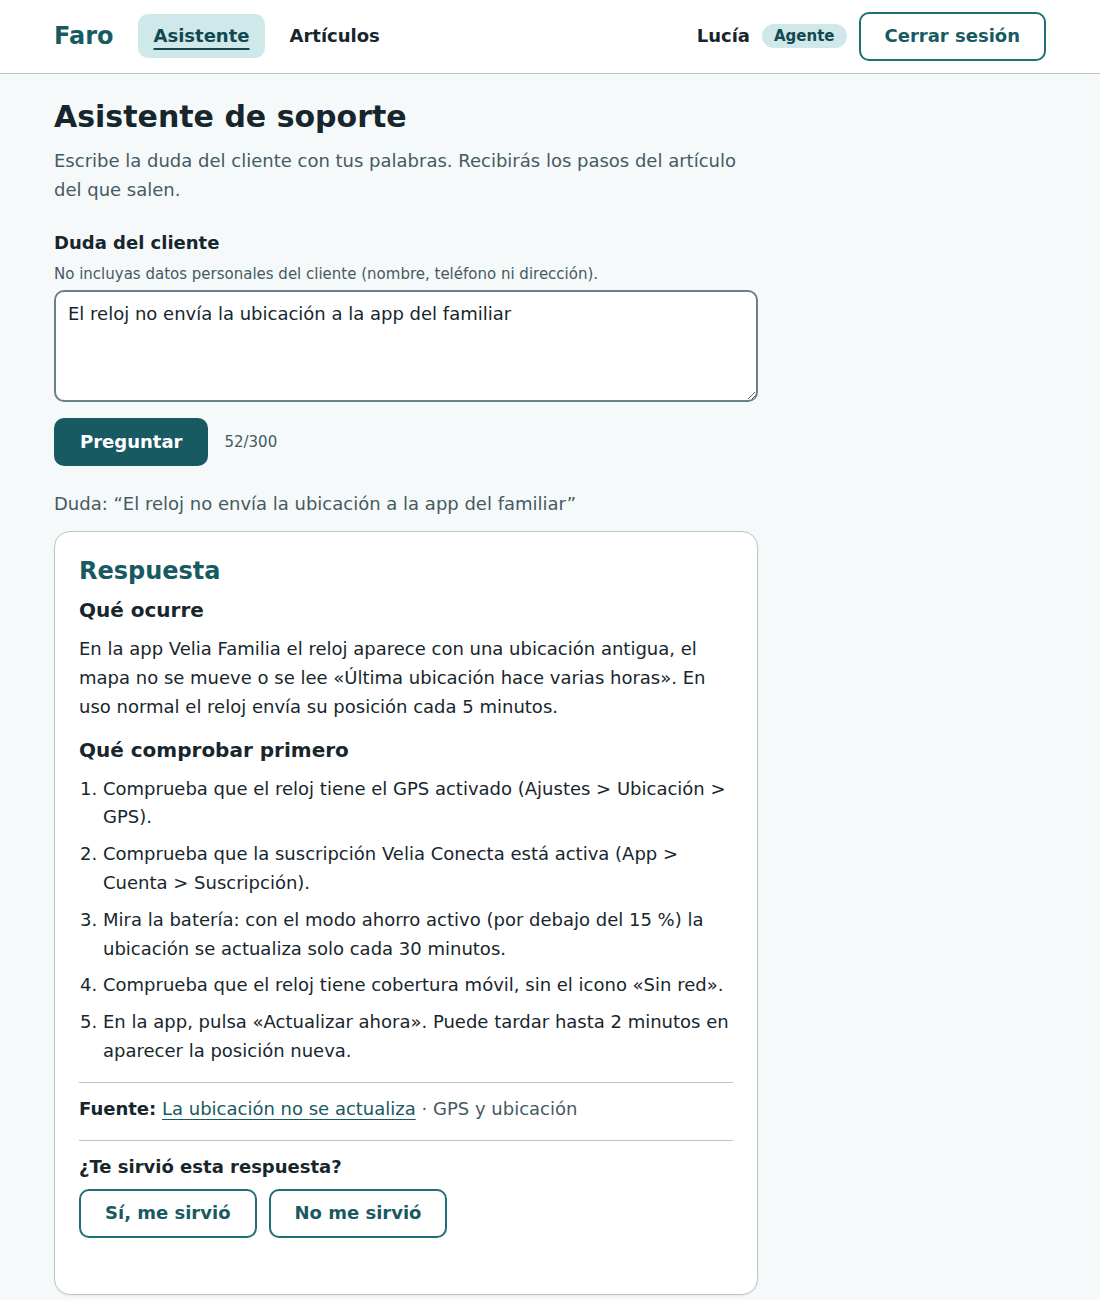
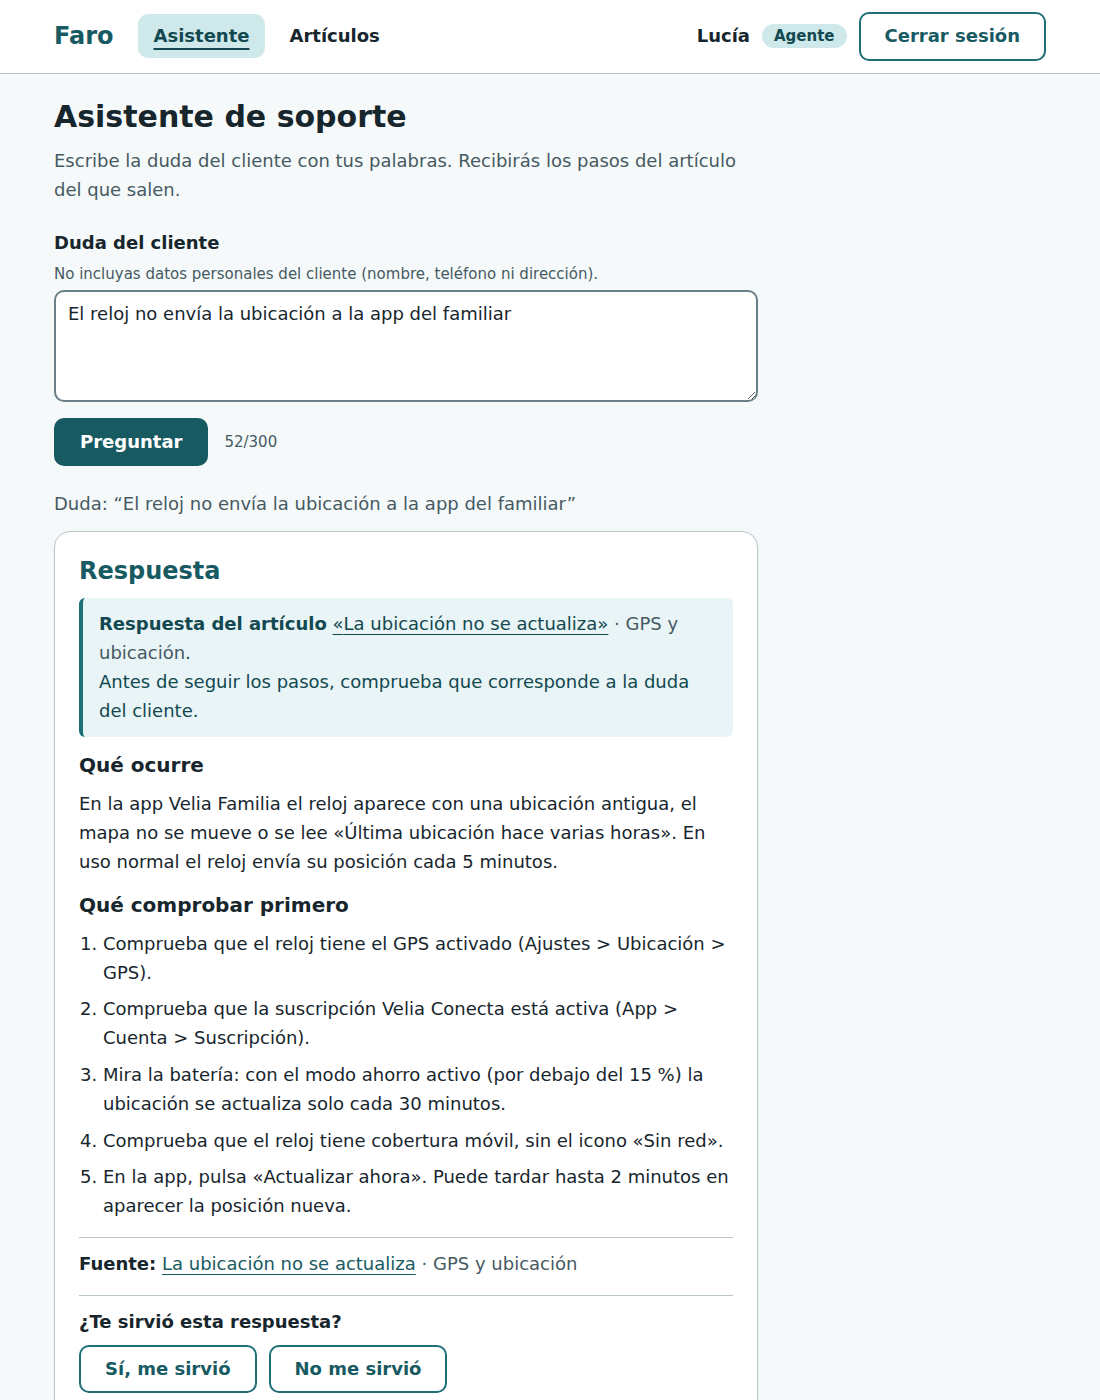
Mitiga en la interfaz el riesgo de respuestas con otro artículo
Cada respuesta empieza con el artículo del que sale y pide comprobar que
corresponde a la duda. Si la coincidencia es débil (puntuación < 0,4, donde
las respuestas aciertan el 46 % frente al 82 %) añade un aviso reforzado.
Nunca muestra un mensaje de alta confianza (la banda alta también falla).
Verificado con axe y contraste en navegador real, móvil y CSP. 5 mutaciones
detectadas. Documentado con su evidencia y sus límites.

Claude-Session: https://claude.ai/code/session_014X62RLLdPC6ewQNj8BPKLC

diff --git a/src/pages/assistant.test.tsx b/src/pages/assistant.test.tsx
@@ -1,6 +1,6 @@
 // @vitest-environment jsdom
 import { afterEach, beforeEach, describe, expect, it, vi } from 'vitest'
-import { cleanup, render, screen, waitFor, within } from '@testing-library/react'
+import { cleanup, render, screen, waitFor } from '@testing-library/react'
 import userEvent from '@testing-library/user-event'
 import { MemoryRouter } from 'react-router-dom'
 
@@ -233,8 +233,8 @@ describe('asistente: validación y errores', () => {
 
     expect(await screen.findByRole('link', { name: 'Respuesta NUEVA' })).toBeTruthy()
     releaseFirst() // llega tarde la primera
-    await waitFor(() => expect(within(screen.getByRole('article')).getByRole('link').textContent).toBe('Respuesta NUEVA'))
-    expect(screen.queryByText('Respuesta ANTIGUA')).toBeNull()
+    await waitFor(() => expect(screen.getByRole('article').textContent).toContain('Respuesta NUEVA'))
+    expect(screen.queryByText(/Respuesta ANTIGUA/)).toBeNull()
   })
 })
 
@@ -339,5 +339,54 @@ describe('asistente: valoración de la respuesta', () => {
     await user.click(screen.getByRole('button', { name: 'Preguntar' }))
     await waitFor(() => expect(screen.getByRole('button', { name: 'Sí, me sirvió' }).getAttribute('aria-pressed')).toBe('false'))
     expect(screen.queryByText('Gracias por tu valoración.')).toBeNull()
+  })
+})
+
+describe('asistente: aviso de comprobación (el artículo puede no corresponder a la duda)', () => {
+  it('SIEMPRE encabeza la respuesta con el artículo y pide comprobar que corresponde a la duda', async () => {
+    open()
+    await ask('la ubicación no se actualiza')
+    await screen.findByRole('heading', { name: 'Respuesta' })
+
+    expect(screen.getByText(/Antes de seguir los pasos, comprueba que corresponde a la duda del cliente/)).toBeTruthy()
+    const top = screen.getByRole('link', { name: /«La ubicación no se actualiza»/ })
+    expect(top.getAttribute('href')).toBe('/articulos/10000000-0000-4000-8000-000000000001#seccion-1')
+  })
+
+  it('con una coincidencia fuerte NO hay aviso de coincidencia débil', async () => {
+    fake.state.search = () => ok([row({ score: 0.8 })])
+    open()
+    await ask('la ubicación no se actualiza')
+    await screen.findByRole('heading', { name: 'Respuesta' })
+    expect(screen.queryByText('Coincidencia débil')).toBeNull()
+  })
+
+  it('con una coincidencia débil (puntuación < 0,4) aparece un aviso adicional más fuerte', async () => {
+    fake.state.search = () => ok([row({ score: 0.3 })])
+    open()
+    await ask('la ubicación no se actualiza')
+    expect(await screen.findByText('Coincidencia débil')).toBeTruthy()
+    expect(screen.getByText(/Es más probable que este artículo no sea el que buscas/)).toBeTruthy()
+    expect(screen.getByRole('alert').textContent).toContain('Coincidencia débil')
+  })
+
+  it('NUNCA muestra un mensaje de "alta confianza" o de seguridad (la banda alta también falla)', async () => {
+    for (const score of [0.3, 0.8, 1]) {
+      fake.state.search = () => ok([row({ score })])
+      const { unmount } = open()
+      await ask('la ubicación no se actualiza')
+      await screen.findByRole('heading', { name: 'Respuesta' })
+      const text = screen.getByRole('article').textContent ?? ''
+      expect(text, `puntuación ${score}`).not.toMatch(/alta confianza|coincidencia fuerte|seguro|garantiz|correcta con seguridad/i)
+      unmount()
+    }
+  })
+
+  it('la respuesta con coincidencia débil sigue siendo accesible (axe)', async () => {
+    fake.state.search = () => ok([row({ score: 0.3 })])
+    open()
+    await ask('la ubicación no se actualiza')
+    await screen.findByText('Coincidencia débil')
+    expect(await a11yViolations()).toEqual([])
   })
 })

diff --git a/src/assistant/assistant.test.ts b/src/assistant/assistant.test.ts
@@ -4,7 +4,7 @@ import { ask } from './ask'
 import type { AssistantDeps } from './ask'
 import { ExtractiveAnswerGenerator } from './generator'
 import { normalizeQuestion } from './question'
-import { MIN_MATCHED_WEIGHT, MIN_SCORE, isRelevant, selectRelevant } from './relevance'
+import { MIN_MATCHED_WEIGHT, MIN_SCORE, WEAK_MATCH_SCORE, isRelevant, isWeakMatch, selectRelevant } from './relevance'
 import { parseChunk } from './chunk'
 import type { AnswerGenerator, RetrievedChunk } from './types'
 
@@ -43,6 +43,26 @@ describe('umbral de relevancia', () => {
       chunk({ articleId: 'alto', score: 0.9 }),
     ])
     expect(picked.map((c) => c.articleId)).toEqual(['alto', 'medio'])
+  })
+})
+
+describe('coincidencia débil (solo para advertir más, nunca para tranquilizar)', () => {
+  it('es débil por debajo de WEAK_MATCH_SCORE y normal en el límite o por encima', () => {
+    expect(isWeakMatch(chunk({ score: WEAK_MATCH_SCORE - 0.01 }))).toBe(true)
+    expect(isWeakMatch(chunk({ score: WEAK_MATCH_SCORE }))).toBe(false)
+    expect(isWeakMatch(chunk({ score: 1 }))).toBe(false)
+  })
+
+  it('el umbral de respuesta es menor que el de coincidencia débil: hay una banda en la que se responde con aviso', () => {
+    expect(MIN_SCORE).toBeLessThan(WEAK_MATCH_SCORE)
+  })
+
+  it('el generador la marca en la respuesta según la puntuación del fragmento', async () => {
+    const generator = new ExtractiveAnswerGenerator(vi.fn())
+    const weak = await generator.generate({ question: 'q', chunks: [chunk({ score: 0.3 })] })
+    const strong = await generator.generate({ question: 'q', chunks: [chunk({ score: 0.8 })] })
+    expect(weak.kind === 'answer' && weak.weakMatch).toBe(true)
+    expect(strong.kind === 'answer' && strong.weakMatch).toBe(false)
   })
 })
 
@@ -99,6 +119,7 @@ describe('ExtractiveAnswerGenerator', () => {
       kind: 'answer',
       source: { articleId: 'a1', articleTitle: 'La ubicación no se actualiza', category: 'GPS y ubicación' },
       sections: [{ position: 1, heading: 'Qué comprobar primero', body: '', steps: ['Activa el GPS', 'Revisa la suscripción'] }],
+      weakMatch: false,
     })
   })
 

diff --git a/src/pages/AssistantPage.tsx b/src/pages/AssistantPage.tsx
@@ -15,12 +15,27 @@ type View =
   | { status: 'error'; question: string }
 
 function AnswerCard({ result, question }: { result: Extract<AskResult, { status: 'answer' }>; question: string }) {
-  const { source, sections } = result.answer
+  const { source, sections, weakMatch } = result.answer
+  const articleLink = `/articulos/${source.articleId}#seccion-${sections[0].position}`
   return (
     <Card as="article" aria-labelledby="respuesta-titulo">
       <h2 id="respuesta-titulo" className={styles.answerTitle}>
         Respuesta
       </h2>
+
+      {/* El asistente puede equivocarse de artículo (ver VALIDACION.md §2.7): se pide comprobarlo SIEMPRE. */}
+      <p className={styles.verify}>
+        <strong>Respuesta del artículo</strong> <Link to={articleLink}>«{source.articleTitle}»</Link>
+        <span className={styles.category}> · {source.category}</span>.<br />
+        Antes de seguir los pasos, comprueba que corresponde a la duda del cliente.
+      </p>
+
+      {weakMatch && (
+        <Alert tone="warning" title="Coincidencia débil" style={{ marginBottom: 'var(--space-4)' }}>
+          Es más probable que este artículo no sea el que buscas. Léelo con especial atención antes de dar los pasos
+          al cliente, y si no encaja, consulta <Link to="/articulos">los artículos</Link>.
+        </Alert>
+      )}
 
       {/* Texto literal de los artículos: nunca se reescribe ni se interpreta como HTML. */}
       {sections.map((section) => (
@@ -39,7 +54,7 @@ function AnswerCard({ result, question }: { result: Extract<AskResult, { status:
 
       <p className={styles.source}>
         <strong>Fuente:</strong>{' '}
-        <Link to={`/articulos/${source.articleId}#seccion-${sections[0].position}`}>{source.articleTitle}</Link>
+        <Link to={articleLink}>{source.articleTitle}</Link>
         <span className={styles.category}> · {source.category}</span>
       </p>
 

diff --git a/src/assistant/relevance.ts b/src/assistant/relevance.ts
@@ -21,6 +21,23 @@ import type { RetrievedChunk } from './types'
 export const MIN_SCORE = 0.2
 export const MIN_MATCHED_WEIGHT = 3.5
 
+/**
+ * Por debajo de esta puntuación, la respuesta se marca como "coincidencia débil" y la interfaz avisa con más
+ * énfasis de que se compruebe que el artículo corresponde a la duda.
+ *
+ * Medido en las pruebas de fiabilidad (VALIDACION.md §2.7; en muestra, informativo): de las respuestas que el
+ * asistente da, las de puntuación 0,20–0,39 son correctas el 46 % de las veces (12 de 26; solo 30–45 % en los
+ * conjuntos difíciles) y las de ≥ 0,40 el 82 % (23 de 28).
+ *
+ * IMPORTANTE: esto solo sirve para ADVERTIR más en la banda baja. NUNCA debe usarse para mostrar "alta
+ * confianza": la banda alta también falla (5 de 28, incluida una respuesta equivocada con puntuación 0,60).
+ */
+export const WEAK_MATCH_SCORE = 0.4
+
+export function isWeakMatch(chunk: RetrievedChunk): boolean {
+  return chunk.score < WEAK_MATCH_SCORE
+}
+
 export interface Gate {
   minScore: number
   minMatchedWeight: number

diff --git a/src/assistant/generator.ts b/src/assistant/generator.ts
@@ -1,4 +1,5 @@
 import type { Article } from '../lib/articles'
+import { isWeakMatch } from './relevance'
 import type { Answer, AnswerGenerator, AnswerSection, RetrievedChunk } from './types'
 
 const toSection = (c: RetrievedChunk): AnswerSection => ({
@@ -42,6 +43,7 @@ export class ExtractiveAnswerGenerator implements AnswerGenerator {
       kind: 'answer',
       source: { articleId: top.articleId, articleTitle: top.articleTitle, category: top.category },
       sections,
+      weakMatch: isWeakMatch(top),
     }
   }
 }

diff --git a/src/assistant/types.ts b/src/assistant/types.ts
@@ -30,7 +30,13 @@ export interface AnswerSource {
 }
 
 export type Answer =
-  | { kind: 'answer'; source: AnswerSource; sections: AnswerSection[] }
+  | {
+      kind: 'answer'
+      source: AnswerSource
+      sections: AnswerSection[]
+      /** Coincidencia débil: la interfaz avisa con más énfasis. Nunca significa lo contrario ("alta confianza"). */
+      weakMatch: boolean
+    }
   | { kind: 'no-info' }
 
 /**

diff --git a/src/pages/AssistantPage.module.css b/src/pages/AssistantPage.module.css
@@ -57,3 +57,16 @@
 .category {
   color: var(--color-text-muted);
 }
+
+.verify {
+  padding: var(--space-3) var(--space-4);
+  margin-bottom: var(--space-4);
+  background: var(--color-info-bg);
+  color: var(--color-info-text);
+  border-left: 4px solid var(--color-info-border);
+  border-radius: var(--radius-sm);
+}
+
+.verify a {
+  color: var(--color-brand-800);
+}

diff --git a/VALIDACION.md b/VALIDACION.md
@@ -9,7 +9,7 @@ cada cosa, porque no es lo mismo.
 | 🧪 **Local** | Comprobado con tests automáticos sobre un Postgres real en local (PGlite) o con un Supabase simulado. Fiable para la lógica y el SQL; no sustituye a una prueba real |
 | ⏳ **Pendiente** | Hay que ejecutarlo contra el Supabase real y pegar aquí el resultado (instrucciones incluidas) |
 
-Pruebas automáticas: **334 tests en 24 archivos**, todos en verde (`npm test`), más typecheck y lint limpios.
+Pruebas automáticas: **342 tests en 24 archivos**, todos en verde (`npm test`), más typecheck y lint limpios.
 Cada bloque de tests se validó además con **pruebas de mutación**: se rompió el código a propósito y se
 comprobó que algún test fallaba. Las mutaciones que sobrevivieron se anotan donde corresponde.
 
@@ -63,6 +63,7 @@ pasos para resolverla con el artículo citado, para resolver la llamada rápido 
 | Mismo comportamiento como Nuria | ✅ Real |
 | Fiabilidad con 41 preguntas (sección 2) | ✅ Real (idéntica a la local) |
 | La respuesta es texto literal del artículo; si nada supera el umbral no se llama al generador; órdenes dentro de artículos o preguntas son datos inertes | 🧪 Local |
+| Cada respuesta pide comprobar que el artículo corresponde a la duda; si la coincidencia es débil (puntuación < 0,4) hay un aviso reforzado; **nunca** un mensaje de «alta confianza» (5 mutaciones detectadas; axe con contraste, móvil y CSP verificados en navegador real) | 🧪 Local |
 
 **Limitaciones.** No entiende sinónimos ni erratas (sección 2.4) y, lo más importante, **inventa respuestas en ~41 % de las preguntas sin artículo cercanas al dominio** (§2.7). Solo devuelve un artículo (no sugiere
 «quizá te interese»). Sin LLM, por decisión de diseño de esta versión.
@@ -285,6 +286,21 @@ inventa» para preguntas sin artículo cercanas al dominio**. Mitigaciones exist
 agente ve de qué artículo sale), las respuestas son texto literal y existe la valoración «¿Te sirvió?» para medir
 el problema con uso real. La solución de fondo es **semántica** (embeddings o un LLM como verificador con las
 defensas de [`docs/PROMPT-INJECTION.md`](docs/PROMPT-INJECTION.md)).
+
+**Mitigación en la interfaz (decidida con la autora).** No se toca la búsqueda. Cada respuesta se encabeza con
+el artículo del que sale y la petición de comprobar que corresponde a la duda del cliente. Además, la puntuación sí
+distingue las respuestas más dudosas (medido sobre las 54 respuestas que el asistente dio a las 100 preguntas de los
+cuatro conjuntos; **en muestra, informativo**):
+
+| Puntuación de la respuesta | Respondidas | Correctas | Fiabilidad |
+|---|---|---|---|
+| 0,20 – 0,39 («coincidencia débil») | 26 | 12 | **46 %** (30 % y 45 % en los dos conjuntos difíciles) |
+| ≥ 0,40 | 28 | 23 | 82 % (75 % y 63 % en los difíciles) |
+
+Por eso la banda débil lleva un aviso reforzado. **Pero la banda alta también falla** (5 de 28, incluida una respuesta
+equivocada con puntuación 0,60: «¿Cómo hablo con una persona?»), así que **nunca se muestra un mensaje de «alta
+confianza»** y hay un test que lo impide. El aviso reduce el riesgo; **no lo elimina**: depende de que el agente lea y
+compruebe.
 
 **Limitaciones de esta medición.** Las preguntas las escribió quien hizo el sistema (y sabía qué buscaba); 29
 preguntas sin artículo dan un intervalo muy ancho (la tasa real de inventadas podría estar entre ~25 % y ~59 %);

diff --git a/README.md b/README.md
@@ -35,7 +35,7 @@ Los tres principios del proyecto:
 | ![Login](docs/screenshots/01-login.png) **Login** | ![Sin información](docs/screenshots/03-asistente-sin-informacion.png) **«No tengo información»** (y se guarda la pregunta) |
 | ![Artículos](docs/screenshots/04-articulos.png) **Artículos por categoría** | ![Detalle](docs/screenshots/05-articulo-detalle.png) **Detalle**, con la sección citada resaltada |
 | ![Editor](docs/screenshots/06-editor-formulario.png) **Editor** (solo rol editor) | ![Preguntas](docs/screenshots/07-preguntas-sin-respuesta.png) **Preguntas sin respuesta**, agrupadas |
-| ![Valoraciones](docs/screenshots/09-valoraciones.png) **Valoraciones** de las respuestas (solo editor) | |
+| ![Valoraciones](docs/screenshots/09-valoraciones.png) **Valoraciones** de las respuestas (solo editor) | ![Coincidencia débil](docs/screenshots/10-coincidencia-debil.png) **Aviso de coincidencia débil** |
 
 <p align="center"><img src="docs/screenshots/08-movil-asistente.png" alt="Versión móvil" width="260"><br>Responsive (390 px)</p>
 
@@ -95,7 +95,7 @@ hayas elegido y **no uses nunca contraseñas reales**.
 
 | Comando | Qué hace |
 |---|---|
-| `npm test` | Todas las pruebas (334, incluida una auditoría de accesibilidad con axe-core), sin necesidad de credenciales |
+| `npm test` | Todas las pruebas (342, incluida una auditoría de accesibilidad con axe-core), sin necesidad de credenciales |
 | `npm run reliability` | Mide la fiabilidad del asistente con 41 preguntas y muestra el porcentaje de aciertos |
 | `npm run security` | Tests de seguridad: cabeceras, secretos y arnés de intrusión |
 | `npm run reliability:live` | Lo mismo que `reliability`, contra **tu** Supabase real |
@@ -133,6 +133,11 @@ un artículo que no responde a la duda). Es una limitación de fondo de la búsq
 interfaz **siempre enseña la fuente** y el agente debe comprobar que el artículo corresponde a la duda.
 La solución de fondo es semántica (embeddings o un LLM como verificador, ver
 [`docs/PROMPT-INJECTION.md`](docs/PROMPT-INJECTION.md)).
+
+**Qué hace la interfaz para mitigarlo.** Cada respuesta empieza con *«Respuesta del artículo X. Antes de seguir los
+pasos, comprueba que corresponde a la duda del cliente»*, y si la coincidencia es débil (puntuación < 0,4; en las
+pruebas esas respuestas aciertan menos de la mitad de las veces) añade un aviso reforzado. **Nunca muestra un
+mensaje de «alta confianza»**: la banda alta también falla (≈ 18 %). El botón «¿Te sirvió?» recoge datos reales.
 
 ## Seguridad
 
